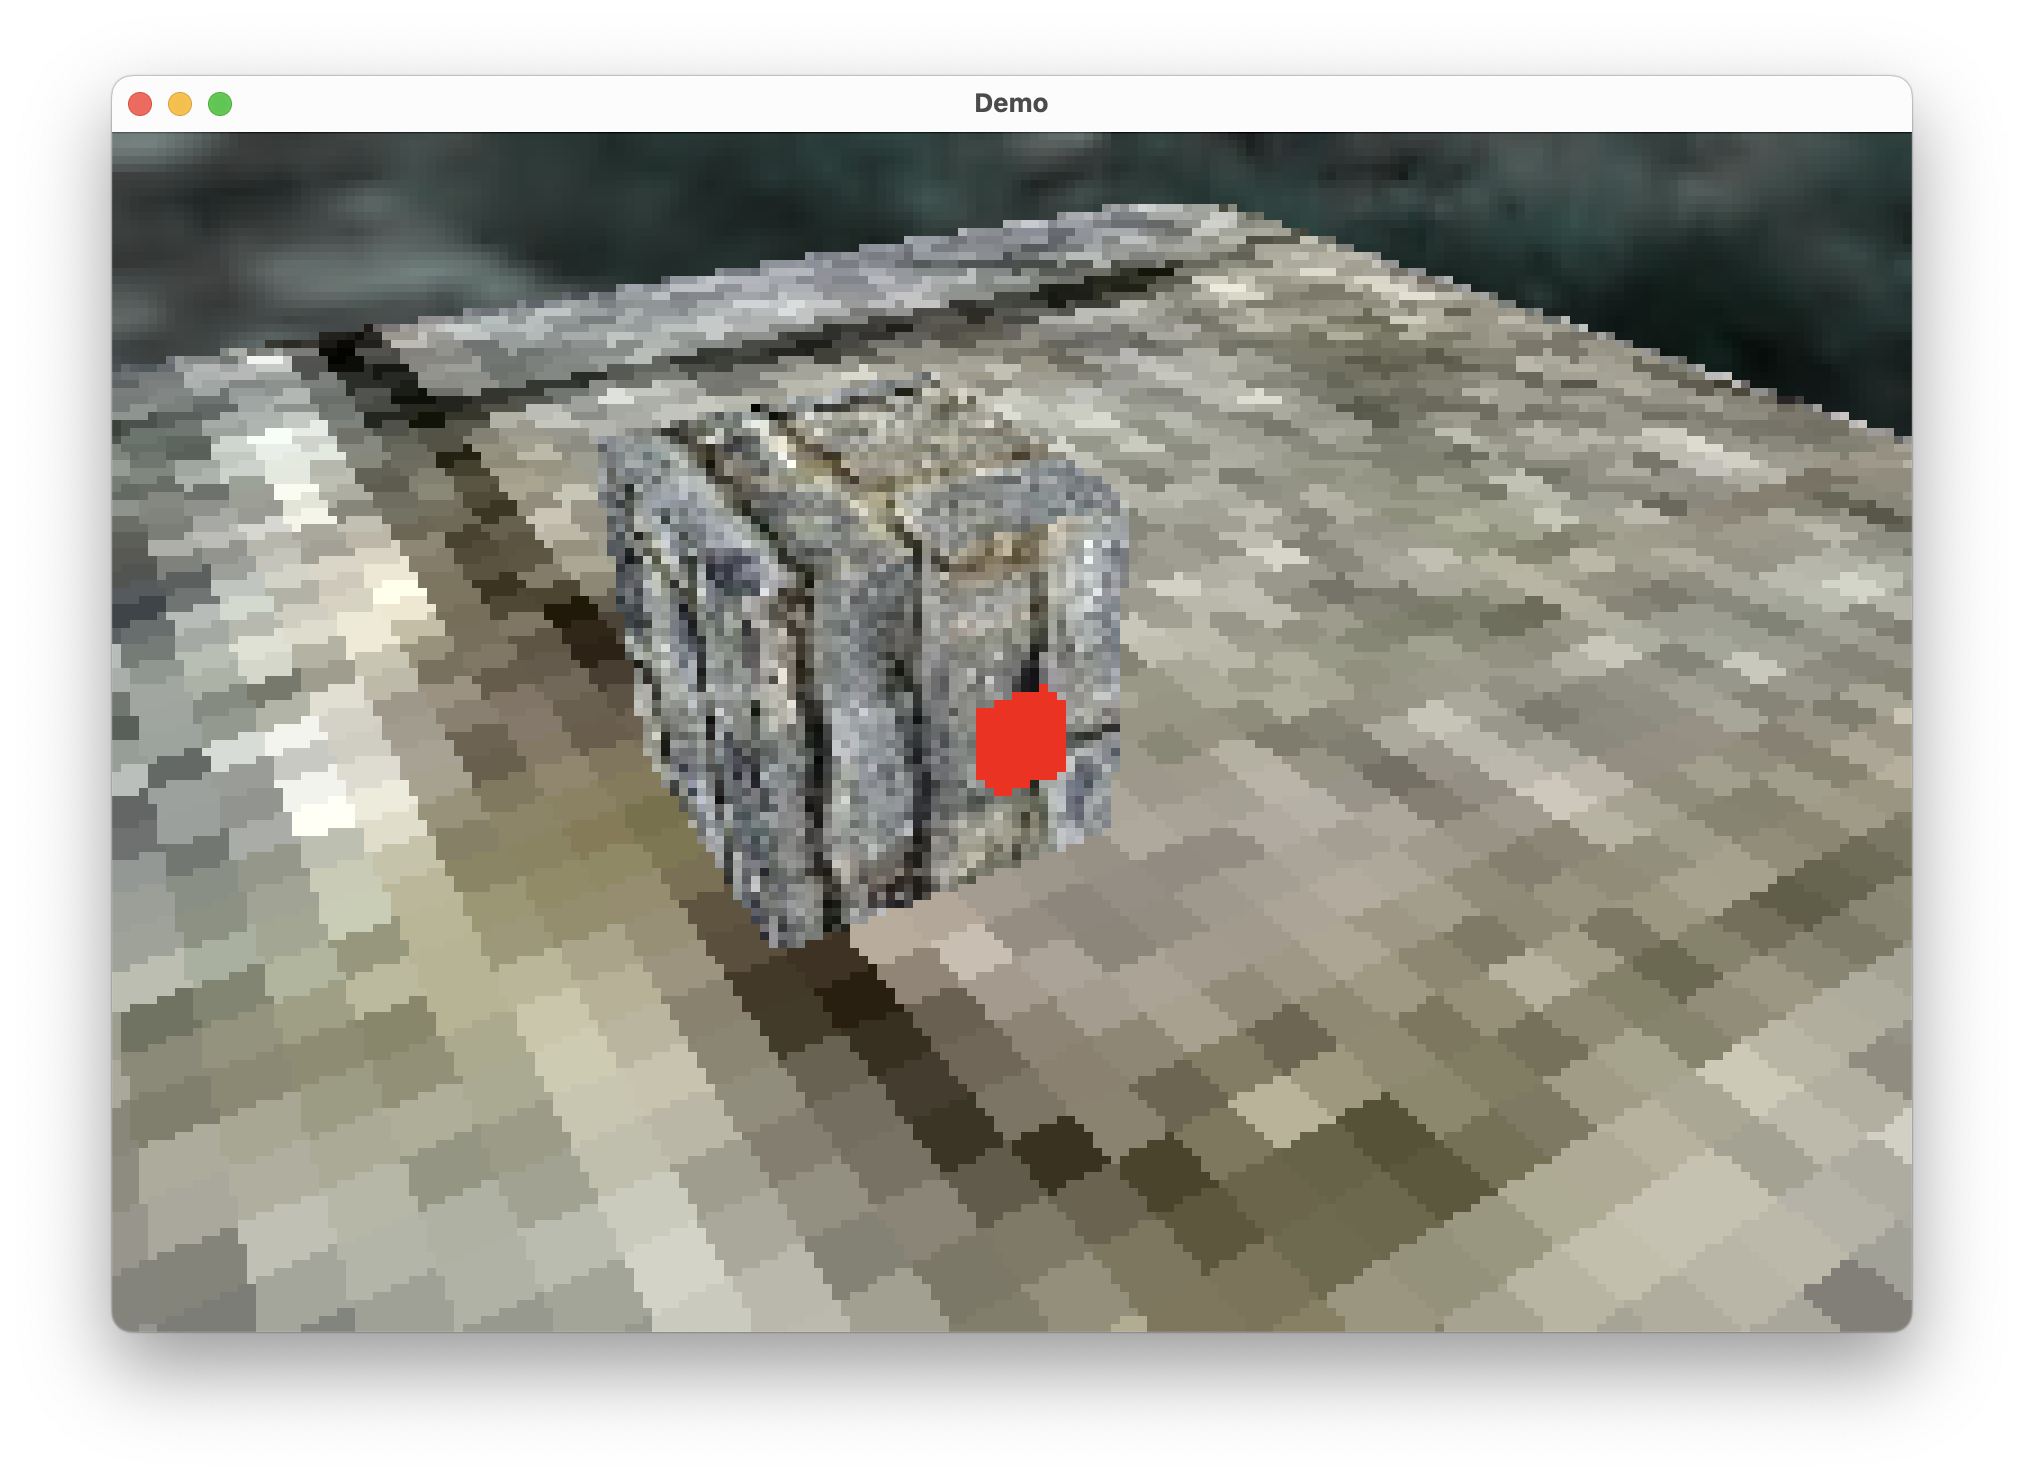
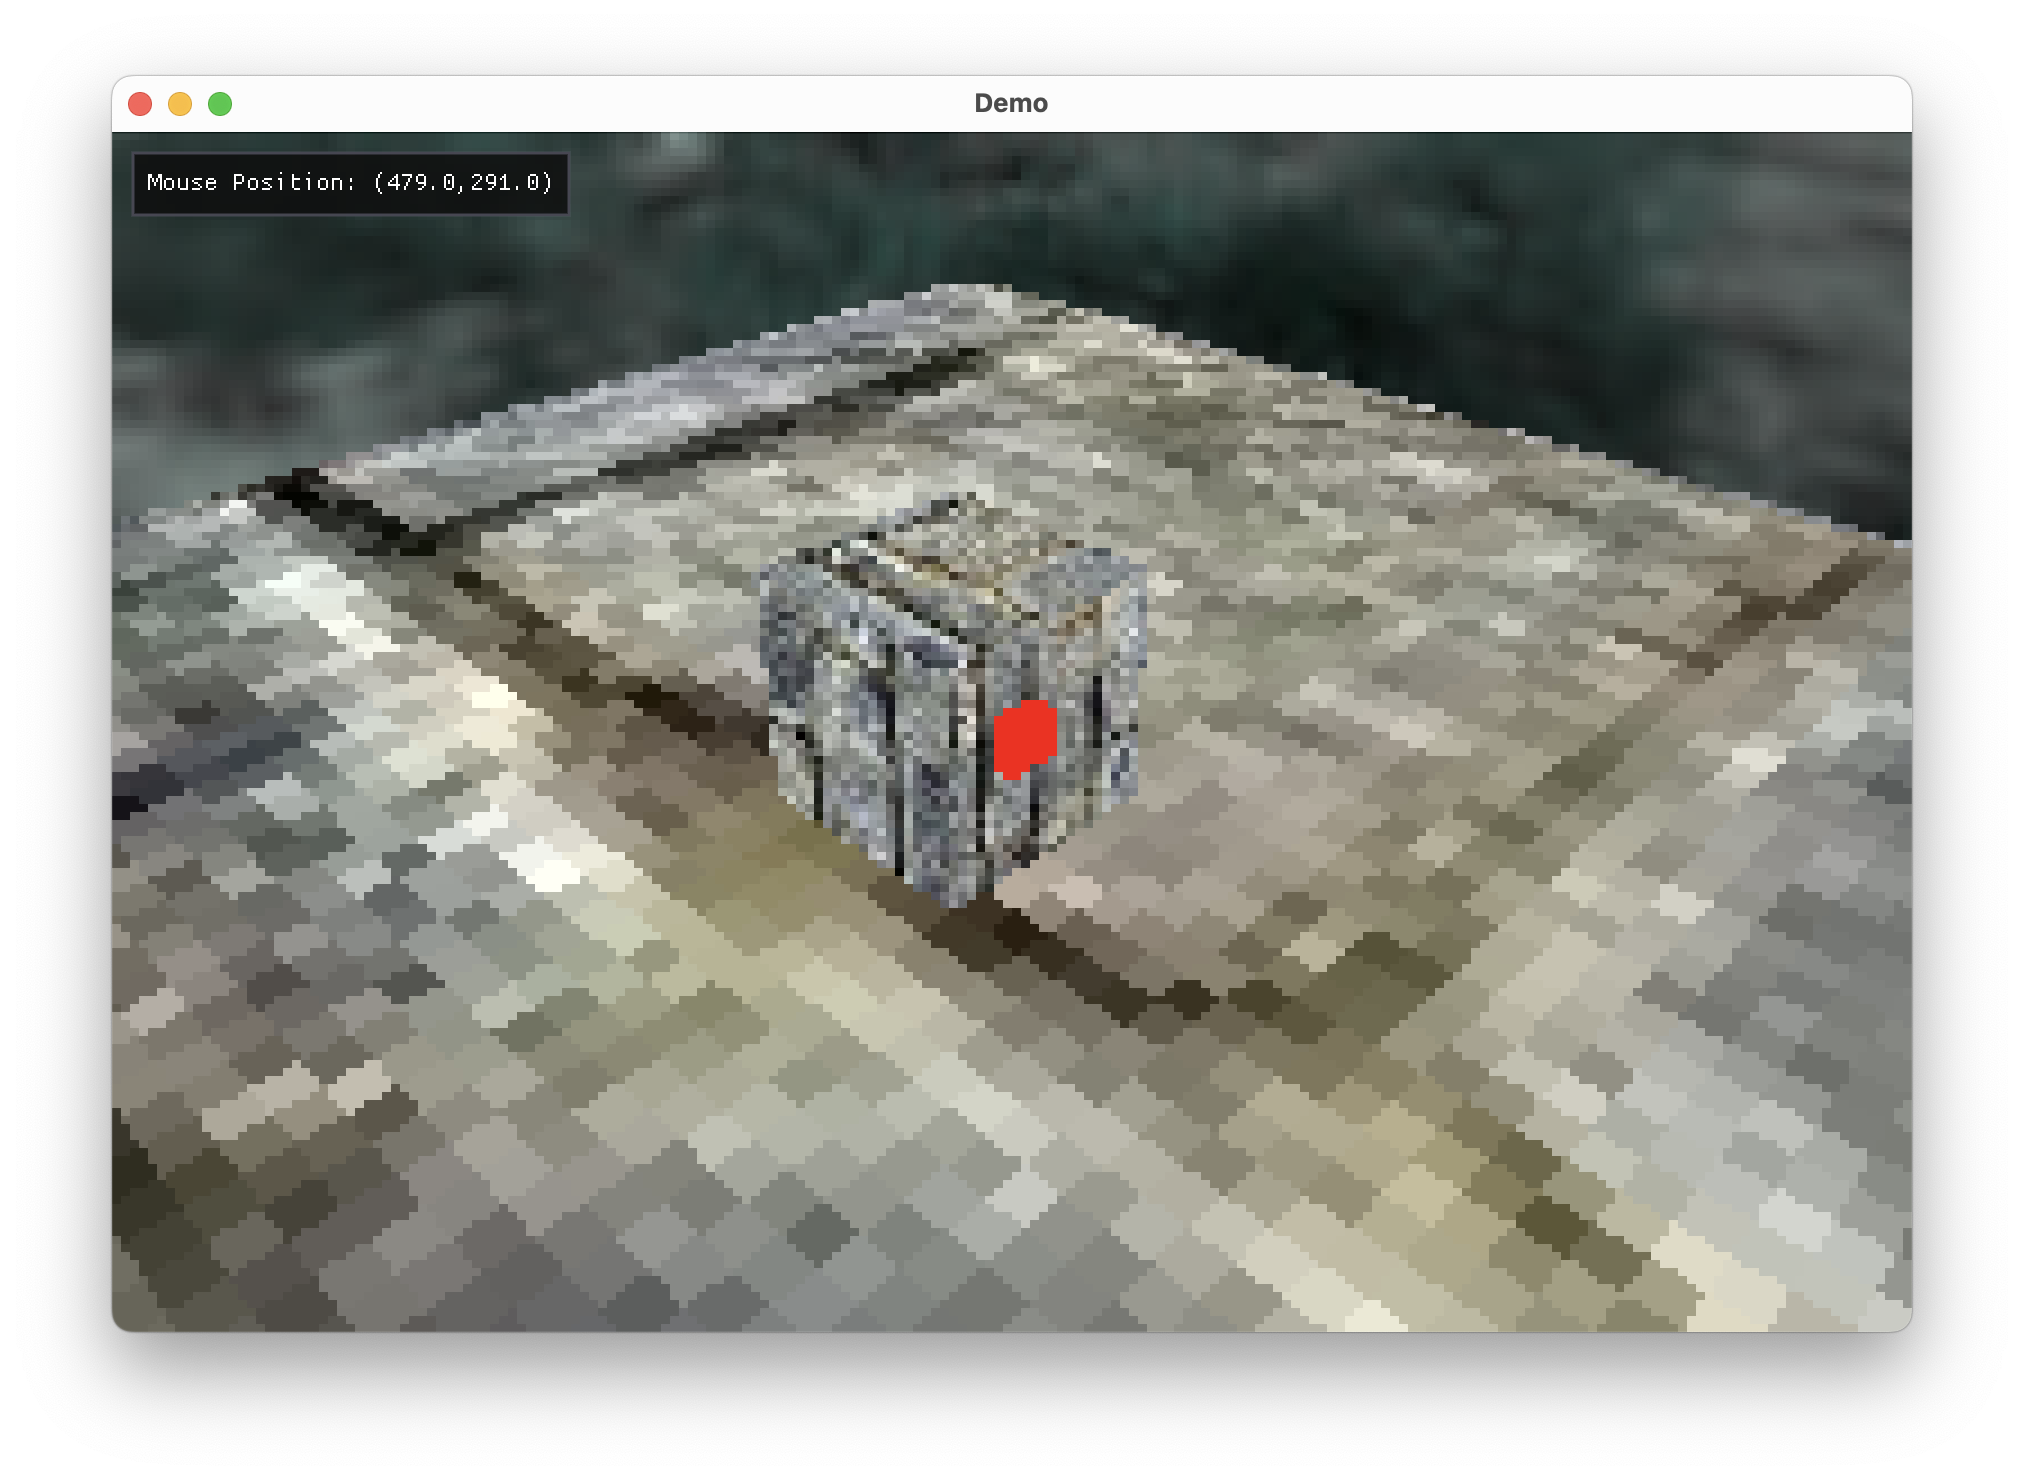
Update README

diff --git a/README.md b/README.md
@@ -1,5 +1,5 @@
 # About
-A simple graphics demo I made for learning Rust and testing its applicability to gamedev. WGPU seemed like a good choice
+A simple graphics demo I made for learning Rust and testing how it fits with game development. WGPU seemed like a good choice
 for a low-level graphics API. There is no attempt to create an "engine", everything is pretty low level
 (so as WGPU) and abstractions are being build along the way only when needed.
 
@@ -9,9 +9,9 @@ for a low-level graphics API. There is no attempt to create an "engine", everyth
 ```
 cargo run
 ```
-Right-click to start controlling camera, use `W-A-S-D-Q-E` keys to fly around.
+Right mouse click to control camera, use `W-A-S-D-Q-E` keys to fly around.
 
-## Implemented so far
+## Features
 - Rendering scene objects via WGPU's `RenderBundle` instead of directly via `RenderPass`. This proved to be _very_ useful
 if you wish to decouple scene rendering logic from render passes and make it modular. With render passes I couldn't
 make it work due to Rust borrow checker and different object lifetimes involved - as in many examples I found,
@@ -25,3 +25,4 @@ things to work together.
   - Simple rigid bodies with colliders.
   - Character controller to prevent camera from going through objects.
   - Ray casting.
+- Debug UI via ImGui.
